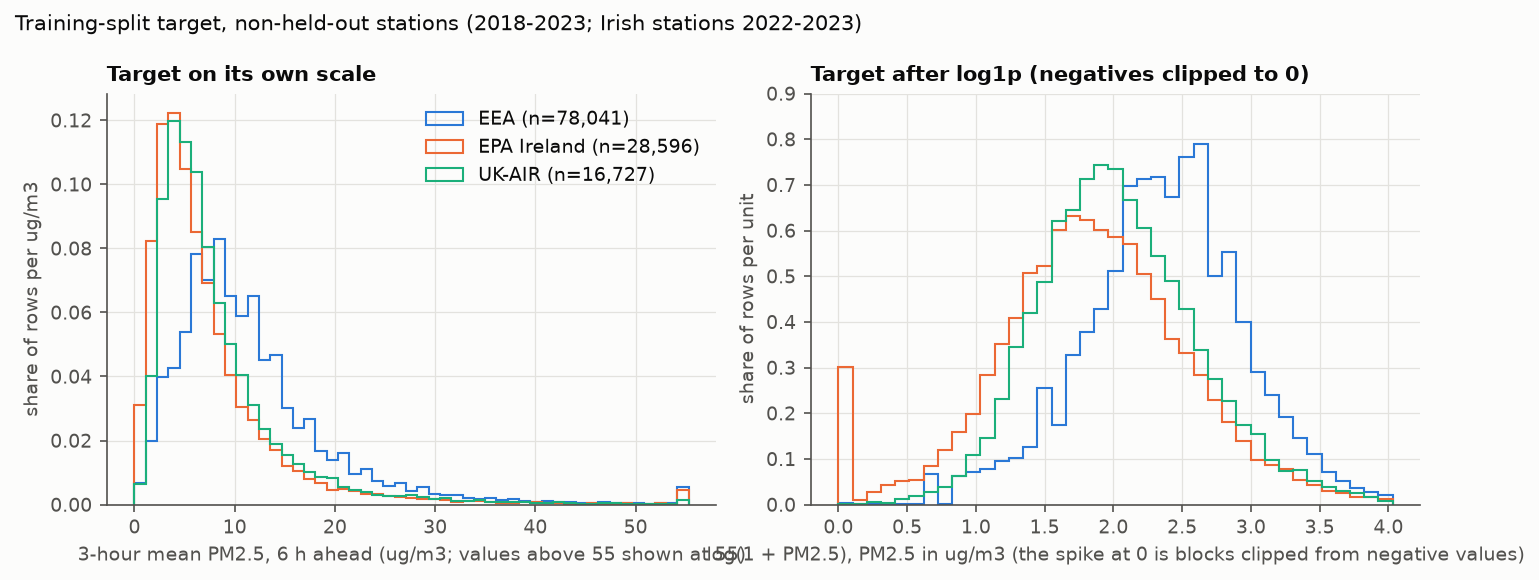
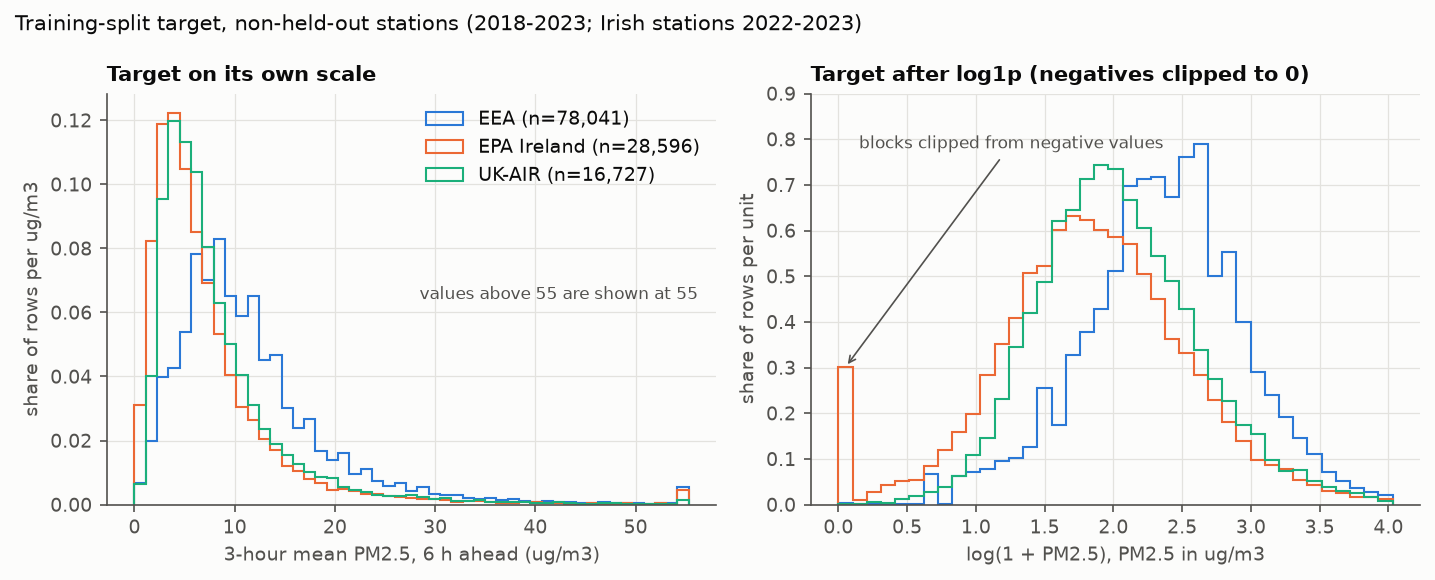
Fixed 2 figures with overlapping text, improved section on ai

diff --git a/src/eda_distributions.py b/src/eda_distributions.py
@@ -45,10 +45,15 @@ def draw(train: pd.DataFrame) -> None:
         right.hist(np.log1p(group["target_pm25"].clip(lower=0)), bins=np.linspace(0, np.log1p(upper), 40), density=True,
                    histtype="step", color=SOURCE_COLORS[source], label=label)
     left.set_title("Target on its own scale", loc="left")
-    left.set_xlabel(f"3-hour mean PM2.5, 6 h ahead (ug/m3; values above {upper:.0f} shown at {upper:.0f})")
+    left.set_xlabel("3-hour mean PM2.5, 6 h ahead (ug/m3)")
+    left.text(0.97, 0.50, f"values above {upper:.0f} are shown at {upper:.0f}", transform=left.transAxes, ha="right", fontsize=8,
+              color=INK_SECONDARY)
     left.set_ylabel("share of rows per ug/m3")
     right.set_title("Target after log1p (negatives clipped to 0)", loc="left")
-    right.set_xlabel("log(1 + PM2.5), PM2.5 in ug/m3 (the spike at 0 is blocks clipped from negative values)")
+    right.set_xlabel("log(1 + PM2.5), PM2.5 in ug/m3")
+    # label the spike at 0 in the plot instead of in the axis label, where it collided with the left panel's label
+    right.annotate("blocks clipped from negative values", xy=(0.05, 0.30), xytext=(0.15, 0.78), fontsize=8, color=INK_SECONDARY,
+                   arrowprops={"arrowstyle": "->", "color": INK_SECONDARY, "linewidth": 0.8})
     right.set_ylabel("share of rows per unit")
     right.set_yticks(right.get_yticks())
     left.legend(loc="upper right")

diff --git a/src/eda_station_differences.py b/src/eda_station_differences.py
@@ -81,7 +81,7 @@ def main():
     axis.set_title("Level and spread by station (training years)", loc="left")
     axis.set_xlim(left=min(0, summary["p5"].min() - 0.5))
     handles = [plt.Line2D([0], [0], color=SOURCE_COLORS[s], linewidth=4, label=SOURCE_LABELS[s]) for s in SOURCE_COLORS]
-    axis.legend(handles=handles, loc="upper left")
+    axis.legend(handles=handles, loc="lower right", fontsize=8, handlelength=1.5)   # lower right: no data there
     bars.barh(range(len(explained)), explained.values, color="#2a78d6", height=0.5)
     bars.set_yticks(range(len(explained)))
     bars.set_yticklabels(explained.index)

diff --git a/docs/M2.md b/docs/M2.md
@@ -23,6 +23,8 @@
 
 **Exact target.** For a station and a 3-hour block B that has just finished (blocks are fixed windows on the UTC clock: 00-03, 03-06, ...), the target is the mean PM2.5 of the block that starts 6 hours after B starts (two blocks later). A block's mean needs at least 2 of its 3 hourly values, and nothing is ever imputed. A row is usable only if the current block, three earlier blocks, the 24-hour rolling mean and standard deviation, and the target are all valid.
 
+**Lead time.** The forecast is issued when the current block B ends. The target block then starts 3 hours after issuance and ends 6 hours after it, so "six hours ahead" counts from the start of B to the start of the target block (two blocks). This is the one definition used by the code (`TARGET_HORIZON_BLOCKS = 2`), by the persistence baseline and by every planned model, and it is the same as in Milestone 1.
+
 **Unit of analysis.** One row is one station at one 3-hour block, described by that block and the blocks before it, and its label is the mean of the block two blocks later.
 
 **Task unchanged since Milestone 1.** The target, the horizon, the stations and the split years are the same as in Milestone 1; what changed are the cleaning and encoding decisions that Milestone 1 left open (section 5.3).
@@ -182,7 +184,7 @@ Over the 123,364 training rows the median target is 8.3 ug/m3, the 99th percenti
 
 ## 4. Exploratory data analysis
 
-Every analysis uses the **decision pool**: the 12 non-held-out stations, 2018-2024. Counts may cover all years and stations, but no threshold, rule or choice uses the 2025 test split or the held-out stations. Each result is written as finding, decision, limitation. Rules marked "judgement" were written down before the numbers were seen. The scripts print these conclusions themselves, so each can be checked by running it.
+Every analysis uses the **decision pool**: the 12 non-held-out stations, 2018-2024. Counts may cover all years and stations, but no threshold, rule or choice uses the 2025 test split or the held-out stations. Choosing a rule is different from applying it: the above-500 rule is applied to every row, including three values in the 2025 test year (section 4.4), but its thresholds were set from the decision pool and the corroboration medians use only data before 2025, and no model result on the test split was used for any choice. Each result is written as finding, decision, limitation. Rules marked "judgement" were written down before the numbers were seen. The scripts print these conclusions themselves, so each can be checked by running it.
 
 ### 4.1 Missing data (Figure 1, `eda_missingness.py`)
 
@@ -619,7 +621,22 @@ The steps are ordered by priority: **core** steps answer the research questions,
 
 ## 9. AI acknowledgement
 
-AI tools were used in this work. **Claude** (Sonnet 5 and Sonnet 5.5) was used to plan the work, write and review code, run analyses and draft documentation, including the scripts in `src/` and this report. **ChatGPT** was used only to discuss design choices, analyse code and review Claude's recommendations.
+**AI use.** Generative AI tools were used in this project. I am responsible for every claim, line of code and result in this submission.
+
+**Tools and purpose.**
+- **Claude** (Claude Code with Sonnet 5 and Sonnet 5.5; and Claude Chat) was used to plan the pipeline, write and review the Python scripts in `src/`, run the analyses, and draft the README and this report.
+- **ChatGPT** was used to discuss design choices, analyse code and review Claude's recommendations, and to assess drafts of this report against the marking rubric.
+
+**How the output was checked or changed.**
+- I have checked every line of code in `src/`.
+- All scripts were run end to end on real data; the reported row counts, split counts and results come from those runs.
+- The feature table is rebuilt from the canonical table with the pipeline's own functions and compared with the pipeline's output (same rows, same split counts) before any analysis script uses it.
+- Running the local pipeline twice from an empty `processed_data/` gave identical SHA-256 hashes for every output file, which also match the stored dataset record.
+- The UK-AIR `.RData` values were compared with the website's CSV files for all 32 station-years, and the scripted EPA download was compared with the hand-downloaded files.
+- Licence and terms text was compared with the live pages.
+- Code style was checked with `pyflakes`.
+- I reviewed proposed changes before they were applied. Where AI suggestions were wrong or unsupported by the data, they were corrected or removed. Examples: a claimed Milestone 1 to Milestone 2 change that Milestone 1 already contained, and a confidence-interval method I decided against.
+- No confidential, personal or restricted data was uploaded to an AI service; the data are public monitoring data.
 
 ---
 

diff --git a/README.md b/README.md
@@ -25,6 +25,8 @@ This allows simple, interpretable, nonlinear tabular, and explicit sequence-base
 
 **Unit of analysis.** One row is one station at one 3-hour block, described by that block and the blocks before it, and its label is the mean of the block two blocks later.
 
+**Lead time.** The forecast is issued when the current block B ends. The target block then starts 3 hours after issuance and ends 6 hours after it, so "six hours ahead" counts from the start of B to the start of the target block (two blocks). This is the one definition used by the code (`TARGET_HORIZON_BLOCKS = 2`), by the persistence baseline and by every planned model, and it is the same as in Milestone 1.
+
 **Intended setting.** An urban air-quality network that issues public forecasts and health alerts. The project is a course experiment and is not used for any real warning.
 
 **Task unchanged since Milestone 1.** The target, the horizon, the stations and the split years are the same as in Milestone 1; what changed are the cleaning and encoding decisions that Milestone 1 left open (see "What changed since Milestone 1, and why" below).
